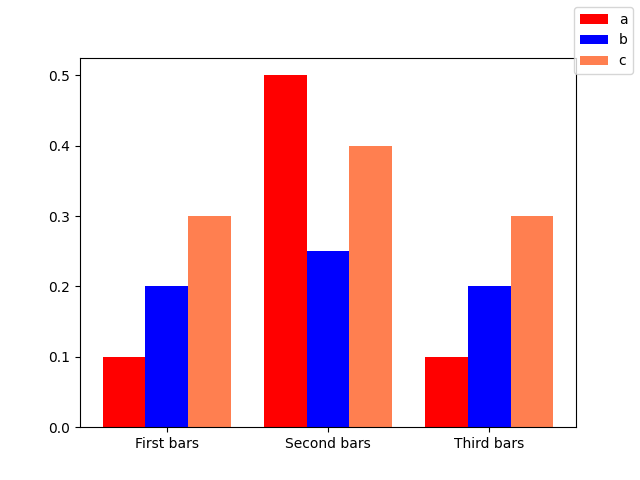
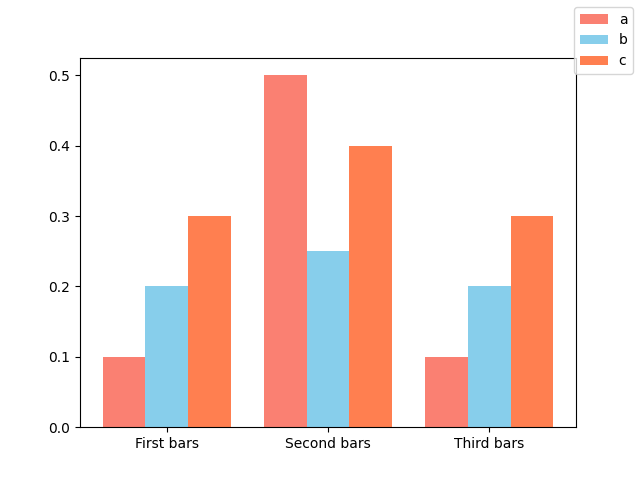
sensbible defaults for better readability

diff --git a/multibarplot/multibar.py b/multibarplot/multibar.py
@@ -1,5 +1,4 @@
 import numpy as np
-import matplotlib.pyplot as plt
 
 def calculate_bar_width(nr_bars, desired_padding):
     space_after_padding = 1 - 2 * desired_padding
@@ -18,9 +17,15 @@ def calculate_x_positions(nr_bars, width):
     else:
         return np.concatenate([np.flip(-one_side), one_side])
 
-def grouped_barplot(ax, X, ys, padding, colors, labels=None):
+def grouped_barplot(ax, ys, x_positions=None, padding=0.1, colors=None, labels=None):
+    nr_ticks, bars_per_tick = ys.shape
+    if x_positions is None:
+        x_positions = np.arange(nr_ticks)
+    if colors is None:
+        colors = [f"C{i}" for i in range(bars_per_tick)]
+
     used_labels = set()
-    for x, y in zip(X, ys):
+    for x, y in zip(x_positions, ys):
         nr_bars = len(y)
         width = calculate_bar_width(nr_bars, padding)
         xs = calculate_x_positions(nr_bars, width) + x

diff --git a/README.md b/README.md
@@ -2,27 +2,34 @@
 Simple function to plot multiple barplots in the same figure. Supports padding and custom color.
 
 # Usage
-Exposes the function `grouped_barplot`.
+Exposes the function `grouped_barplot(ax, ys, x_positions=None, padding=0.1, colors=None, labels=None)`.
 
 ```python
 import numpy as np
 import matplotlib.pyplot as plt
 
-from multibarplot import grouped_barplot 
+from multibarplot import grouped_barplot
 
-x = np.arange(3)
-desired_padding = 0.1
 ys = np.array([[0.1, 0.2, 0.3], [0.5, 0.25, 0.4], [0.1, 0.2, 0.3]])
-colors = ["red", "blue", "coral"]
+colors = ["salmon", "skyblue", "coral"]
 labels = ["a", "b", "c"]
 
 fig, ax = plt.subplots(1,1)
-grouped_barplot(ax, x, ys, desired_padding, colors, labels=labels)
-ax.set_xticks(x)
+grouped_barplot(ax, ys, colors=colors, labels=labels)
+ax.set_xticks(np.arange(3))
 ax.set_xticklabels(["First bars", "Second bars", "Third bars"])
 fig.legend()
 
 plt.show()
 ```
+
+## Parameters
+`x_positions`: Set x ticks to put the barplots at. By default, it will start at index `0`.
+
+`padding`: Padding between each set of bars. By default, this is set to `0.1`.
+
+`colors`: Colors of bar plots. By default, it will pick Matplotlibs default colors
+
+`labels`: Optional label for each bar.
 
 ![](example.png)
